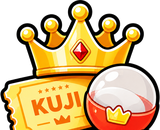
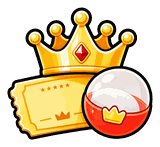
v3.9.8: 쿠지킹 스마트스토어·카카오톡 채널 연결(쿠지통령→쿠지킹) · 로고 아래 잘림/흰 네모 수정(워드마크·엠블럼 재생성, 투명 여백 5%) · 뽑기권 구매 버튼 추가

diff --git a/index.html b/index.html
@@ -22,7 +22,7 @@
 <link rel="stylesheet" href="https://fonts.googleapis.com/css2?family=Black+Han+Sans&family=Do+Hyeon&display=swap">
 <link rel="stylesheet" href="https://cdn.jsdelivr.net/gh/orioncactus/pretendard@v1.3.9/dist/web/variable/pretendardvariable-dynamic-subset.min.css">
 <link rel="preconnect" href="https://t1.kakaocdn.net" crossorigin>
-<link rel="stylesheet" href="assets/styles.css?v=3.9.7">
+<link rel="stylesheet" href="assets/styles.css?v=3.9.8">
 <script type="application/ld+json">
 {"@context":"https://schema.org","@type":"WebSite","name":"쿠지킹","alternateName":"KUJIKING","url":"https://kujiking.co.kr/"}
 </script>
@@ -34,14 +34,14 @@
   <div class="container announce-inner">
     <span class="announce-badge">OPEN</span>
     <p class="announce-demo">오픈 기념 <strong>전 판 무료 체험</strong> · 체험 코드 <code>DEMO-KUJI</code> 또는 체험 계정으로 바로 뽑아보세요</p>
-    <p class="announce-live" hidden>스마트스토어 <strong>쿠지통령</strong>에서 구매하고 <strong>구매확인</strong>을 요청하면 뽑기권(쿠폰)이 계정에 지급됩니다</p>
+    <p class="announce-live" hidden>스마트스토어 <strong>쿠지킹</strong>에서 구매하고 <strong>구매확인</strong>을 요청하면 뽑기권(쿠폰)이 계정에 지급됩니다 · <a class="announce-link" href="https://smartstore.naver.com/kujiking" target="_blank" rel="noopener">스마트스토어 바로가기 <span aria-hidden="true">→</span></a></p>
   </div>
 </div>
 
 <header class="site-header" id="siteHeader">
   <div class="container header-inner">
     <a class="brand" href="#/" aria-label="쿠지킹 홈">
-      <img src="assets/emblem-160.png" alt="" class="brand-mark" width="60" height="49">
+      <img src="assets/emblem-160.png" alt="" class="brand-mark" width="50" height="46" decoding="async">
       <span class="brand-word">쿠지킹</span>
     </a>
     <nav class="main-nav" id="mainNav" aria-label="주요 메뉴">
@@ -86,7 +86,7 @@
       <div class="hero-burst" aria-hidden="true"></div>
       <div class="container hero-inner">
         <div class="hero-copy">
-          <span class="pill pill-cream">공식 쿠지 스토어 · 쿠지통령</span>
+          <span class="pill pill-cream">공식 쿠지 스토어 · 쿠지킹</span>
           <h1>한 장에 설레는 순간,<br><span class="hl-mark">쿠지킹</span></h1>
           <p class="hero-sub">드래곤볼·헌터×헌터·죠죠·약사의 혼잣말까지.<br class="only-mobile">
             실제 상품 사진과 등급 설명서를 확인하고, 남은 번호를 골라 뽑아보세요.</p>
@@ -116,8 +116,12 @@
       <div class="container code-strip-inner">
         <div class="code-strip-copy">
           <strong>교환 코드가 있으신가요?</strong>
-          <span>스마트스토어 <b>쿠지통령</b>에서 구매하면 코드를 보내드려요. 구매확인 후 <b>쿠폰(뽑기권)</b>으로도 지급됩니다.</span>
+          <span>스마트스토어 <b>쿠지킹</b>에서 구매하면 코드를 보내드려요. 구매확인 후 <b>쿠폰(뽑기권)</b>으로도 지급됩니다.</span>
         </div>
+        <a class="buy-pill" href="https://smartstore.naver.com/kujiking/products/13893473264" target="_blank" rel="noopener" aria-label="뽑기권 구매 — 쿠지킹 스마트스토어 (새 창)">
+          <svg class="buy-pill-ico" viewBox="0 0 24 24" fill="none" stroke="currentColor" stroke-width="2.1" stroke-linecap="round" stroke-linejoin="round" aria-hidden="true"><path d="M3 5h2.2l2.1 10.4a2 2 0 0 0 2 1.6h7.5a2 2 0 0 0 2-1.6L20.5 8H6.2"/><circle cx="10" cy="20" r="1.3"/><circle cx="17.4" cy="20" r="1.3"/></svg>
+          <span class="buy-pill-text"><b>뽑기권 구매</b><em>스마트스토어</em></span>
+        </a>
         <form class="code-strip-form" data-form="code-strip" novalidate>
           <label class="sr-only" for="stripCode">교환 코드</label>
           <input id="stripCode" name="code" type="text" inputmode="text" autocomplete="off" spellcheck="false"
@@ -267,7 +271,7 @@
             <p class="aside-ship"><b>배송비 · 합배송</b><span data-ship-notice>기본 배송비 3,500원 · 보관함에서 3건 이상 묶음(합배송) 신청 시 무료배송 (제주·도서산간 +3,000원)</span></p>
             <button class="kakao-pill kakao-pill-sm kakao-pill-block" type="button" data-action="open-kakao">
               <span class="kakao-mark" aria-hidden="true"><svg viewBox="0 0 24 24" fill="none"><path d="M12 2.9c-5.3 0-9.6 3.4-9.6 7.6 0 2.7 1.8 5.1 4.4 6.4l-1 3.3c-.1.4.3.7.6.5l4-2.5c.5.1 1 .1 1.6.1 5.3 0 9.6-3.4 9.6-7.6S17.3 2.9 12 2.9z" fill="currentColor"/></svg></span>
-              <span class="kakao-pill-word">1:1 오픈채팅 문의</span>
+              <span class="kakao-pill-word">1:1 카카오톡 문의</span>
             </button>
             <button class="btn btn-outline btn-block btn-sm" data-action="open-code-modal">교환 코드 미리 넣기</button>
           </div>
@@ -712,14 +716,14 @@
           <div class="card admin-card" id="csCard">
             <div class="admin-card-head">
               <h2>고객센터 · 배송비 설정</h2>
-              <span class="badge" id="csStateBadge" hidden>오픈채팅 연결됨</span>
+              <span class="badge" id="csStateBadge" hidden>카카오톡 상담 연결됨</span>
             </div>
-            <p class="muted">카카오톡 1:1 오픈채팅 주소와 배송비·합배송 안내 문구를 정합니다. 저장하면 앱을 다시 올리지 않아도 푸터·이용 안내·내 보관함·배송 신청 창에 바로 적용돼요.</p>
+            <p class="muted">카카오톡 채널 1:1 상담 주소와 배송비·합배송 안내 문구를 정합니다. 저장하면 앱을 다시 올리지 않아도 푸터·이용 안내·내 보관함·배송 신청 창에 바로 적용돼요.</p>
             <form class="cs-form" data-form="save-cs" novalidate>
               <label class="field">
-                <span>카카오톡 1:1 오픈채팅 주소</span>
-                <input name="kakao" type="text" inputmode="url" autocomplete="off" spellcheck="false" placeholder="https://open.kakao.com/o/xxxxxxxx">
-                <em class="field-hint">비워 두면 방문자가 문의 버튼을 눌렀을 때 “현재 1:1 오픈채팅을 연결 중입니다!” 안내가 보입니다.</em>
+                <span>카카오톡 채널 1:1 상담 주소</span>
+                <input name="kakao" type="text" inputmode="url" autocomplete="off" spellcheck="false" placeholder="https://pf.kakao.com/_xnxhmvX/chat">
+                <em class="field-hint">지금은 쿠지킹 카카오톡 채널(https://pf.kakao.com/_xnxhmvX/chat)이 연결돼 있어요. 비워 두면 다시 “연결 중” 안내가 나갑니다.</em>
               </label>
               <label class="field">
                 <span>배송비 · 합배송 안내 문구</span>
@@ -729,7 +733,7 @@
               <div class="cs-live-preview" id="csPreview"></div>
               <div class="form-actions">
                 <button class="btn btn-primary" type="submit">저장</button>
-                <button class="btn btn-outline" type="button" data-action="test-kakao">오픈채팅 열어보기</button>
+                <button class="btn btn-outline" type="button" data-action="test-kakao">카카오톡 상담 열어보기</button>
               </div>
               <p class="form-error" id="csError" role="alert"></p>
             </form>
@@ -785,7 +789,7 @@
 <footer class="site-footer">
   <div class="container footer-inner">
     <div class="footer-brand">
-      <img src="assets/emblem-400.png" alt="쿠지킹" width="84" height="68">
+      <img src="assets/emblem-400.png" alt="쿠지킹" width="92" height="84" decoding="async">
       <p>한 장에 설레는 순간, 쿠지킹.<br>온라인 쿠지 · 이치방쿠지 · 제일복권</p>
     </div>
     <div class="footer-links">
@@ -798,7 +802,8 @@
       </div>
       <div>
         <h4>고객센터</h4>
-        <a href="https://smartstore.naver.com/" target="_blank" rel="noopener">쿠지통령 스마트스토어</a>
+        <a href="https://smartstore.naver.com/kujiking" target="_blank" rel="noopener">쿠지킹 스마트스토어</a>
+        <a href="https://pf.kakao.com/_xnxhmvX/chat" target="_blank" rel="noopener">카카오톡 채널 상담</a>
         <a href="#/fairness">확률 · 이용 안내</a>
       </div>
     </div>
@@ -810,7 +815,7 @@
     </div>
     <button class="kakao-pill" id="footerKakaoBtn" type="button" data-action="open-kakao">
       <span class="kakao-mark" aria-hidden="true"><svg viewBox="0 0 24 24" fill="none"><path d="M12 2.9c-5.3 0-9.6 3.4-9.6 7.6 0 2.7 1.8 5.1 4.4 6.4l-1 3.3c-.1.4.3.7.6.5l4-2.5c.5.1 1 .1 1.6.1 5.3 0 9.6-3.4 9.6-7.6S17.3 2.9 12 2.9z" fill="currentColor"/></svg></span>
-      <span class="kakao-pill-word">1:1 오픈채팅 문의</span>
+      <span class="kakao-pill-word">1:1 카카오톡 문의</span>
     </button>
   </div>
   <div class="container footer-legal">
@@ -819,7 +824,7 @@
       본 상품은 무작위 추첨 상품입니다. 교환 코드 사용(개봉) 후에는 청약철회가 제한됩니다.
       미성년자는 법정대리인 동의 후 이용해 주세요.
     </p>
-    <p class="footer-copy">© 2026 쿠지킹. All rights reserved. · <span class="proto-tag" id="protoTag">v2.0</span></p>
+    <p class="footer-copy">© 2026 쿠지킹. All rights reserved. · <span class="proto-tag" id="protoTag">v3.9.8</span></p>
   </div>
 </footer>
 
@@ -834,6 +839,6 @@
 </div>
 
 <script src="assets/config.js?v=3.0.2"></script>
-<script src="assets/app.js?v=3.9.7" defer></script>
+<script src="assets/app.js?v=3.9.8" defer></script>
 </body>
 </html>

diff --git a/assets/app.js b/assets/app.js
@@ -18,6 +18,11 @@
   var STATE_VERSION = 5;   // v5: 실물 등급 각 1개 + P상(굿즈 포인트 1,200P) 구성으로 재시드
   var MAX_TICKETS = 500;
 
+  /* ---------- 스토어 · 카카오톡 채널 링크 (2026-11-24 개설) ---------- */
+  var STORE_URL = 'https://smartstore.naver.com/kujiking';
+  var STORE_PRODUCT_URL = 'https://smartstore.naver.com/kujiking/products/13893473264';
+  var KAKAO_CHAT_URL = 'https://pf.kakao.com/_xnxhmvX/chat';
+
   /* ---------- 회원가입 이메일 제한 ----------
      스팸 가입 방지를 위해 네이버·지메일 주소만 가입을 받는다.
      이미 가입한 다른 도메인 계정도 로그인은 그대로 된다(가입에만 적용). */
@@ -398,7 +403,7 @@
   function emptyState() {
     return {
       v: STATE_VERSION,
-      settings: { demoCode: 'DEMO-KUJI', pinHash: '', pinChanged: false, storeName: '쿠지통령', youtubeLiveUrl: '', youtubeLiveEnabled: true, kakaoOpenchatUrl: '', shippingFeeNotice: '' },
+      settings: { demoCode: 'DEMO-KUJI', pinHash: '', pinChanged: false, storeName: '쿠지킹', youtubeLiveUrl: '', youtubeLiveEnabled: true, kakaoOpenchatUrl: KAKAO_CHAT_URL, shippingFeeNotice: '' },
       boards: [], users: [], coupons: [], draws: [], claims: [], deliveries: [], codes: [],
       session: null,
       me: null, myCoupons: [], myDraws: [], myClaims: [], myDeliveries: [],
@@ -963,7 +968,7 @@
   }
 
   function normalizeLocalState(s) {
-    s.settings = Object.assign({ demoCode: 'DEMO-KUJI', pinHash: '', pinChanged: false, storeName: '쿠지통령', youtubeLiveUrl: '', youtubeLiveEnabled: true, kakaoOpenchatUrl: '', shippingFeeNotice: '' }, s.settings || {});
+    s.settings = Object.assign({ demoCode: 'DEMO-KUJI', pinHash: '', pinChanged: false, storeName: '쿠지킹', youtubeLiveUrl: '', youtubeLiveEnabled: true, kakaoOpenchatUrl: KAKAO_CHAT_URL, shippingFeeNotice: '' }, s.settings || {});
     s.users = s.users || [];
     s.coupons = s.coupons || [];
     s.draws = s.draws || [];
@@ -1187,7 +1192,7 @@
         if (typeof settingsMap.youtube_live_enabled === 'string') {
           state.settings.youtubeLiveEnabled = !/^(false|0|off|no)$/i.test(settingsMap.youtube_live_enabled.trim());
         }
-        if (typeof settingsMap.kakao_openchat_url === 'string') state.settings.kakaoOpenchatUrl = settingsMap.kakao_openchat_url;
+        if (typeof settingsMap.kakao_openchat_url === 'string' && settingsMap.kakao_openchat_url.trim()) state.settings.kakaoOpenchatUrl = settingsMap.kakao_openchat_url;
         if (typeof settingsMap.shipping_fee_notice === 'string') state.settings.shippingFeeNotice = settingsMap.shipping_fee_notice;
       }
 
@@ -2197,7 +2202,7 @@
 
   /* ---------- 고객센터 · 배송비 ---------- */
   var SHIP_NOTICE_DEFAULT = '기본 배송비 3,500원 · 보관함에서 3건 이상 묶음(합배송) 신청 시 무료배송 (제주·도서산간 +3,000원)';
-  var KAKAO_SOON = '현재 1:1 오픈채팅을 연결 중입니다! 잠시만 기다려 주세요.';
+  var KAKAO_SOON = '현재 1:1 카카오톡 상담을 연결 중입니다! 잠시만 기다려 주세요.';
 
   function shippingNotice() {
     var s = String(state.settings.shippingFeeNotice == null ? '' : state.settings.shippingFeeNotice).replace(/\s+/g, ' ').trim();
@@ -2218,7 +2223,7 @@
   }
 
   function kakaoOpenchatUrl() {
-    return kakaoTarget(state.settings.kakaoOpenchatUrl);
+    return kakaoTarget(state.settings.kakaoOpenchatUrl) || KAKAO_CHAT_URL;
   }
 
   function kakaoMarkHTML(cls) {
@@ -2228,7 +2233,7 @@
   function kakaoPillHTML(cls) {
     return '<button class="kakao-pill' + (cls ? ' ' + cls : '') + '" type="button" data-action="open-kakao">' +
       kakaoMarkHTML() +
-    '<span class="kakao-pill-word">1:1 오픈채팅 문의</span></button>';
+    '<span class="kakao-pill-word">1:1 카카오톡 문의</span></button>';
   }
 
   function openKakaoInquiry(raw) {
@@ -2239,7 +2244,7 @@
     }
     openModal('<div class="kakao-soon">' +
       '<span class="kakao-soon-mark" aria-hidden="true">' + kakaoMarkHTML('kakao-mark-lg') + '</span>' +
-      '<h2 class="modal-title" id="modalTitle">1:1 오픈채팅 문의</h2>' +
+      '<h2 class="modal-title" id="modalTitle">1:1 카카오톡 문의</h2>' +
       '<p class="modal-sub">' + h(KAKAO_SOON) + '</p>' +
       '<div class="modal-actions"><button class="btn btn-dark" type="button" data-action="close-modal">확인</button></div>' +
       '</div>');
@@ -2255,7 +2260,7 @@
     var on = !!kakaoOpenchatUrl();
     $$('[data-action="open-kakao"]').forEach(function (el) {
       el.classList.toggle('is-soon', !on);
-      el.setAttribute('title', on ? '카카오톡 1:1 오픈채팅 열기 (새 창)' : '1:1 오픈채팅 연결 준비 중');
+      el.setAttribute('title', on ? '카카오톡 1:1 상담 열기 (새 창)' : '1:1 카카오톡 상담 연결 준비 중');
     });
   }
 
@@ -2317,7 +2322,7 @@
     prev.innerHTML = '<span>방문자에게 보이는 배송비 안내 → <b>' + h(noteText) + '</b></span>' +
       (typed.kakao
         ? (target ? '<span>문의 버튼 → <a href="' + h(target) + '" target="_blank" rel="noopener">' + h(target) + '</a></span>'
-                  : '<span>주소를 확인해 주세요. 예: <code>https://open.kakao.com/o/xxxxxxxx</code></span>')
+                  : '<span>주소를 확인해 주세요. 예: <code>https://pf.kakao.com/_xnxhmvX/chat</code></span>')
         : '<span>문의 버튼 → 지금은 “' + h(KAKAO_SOON) + '” 안내가 보입니다.</span>');
   }
 
@@ -2333,7 +2338,7 @@
     if (badge) {
       var on = !!kakaoOpenchatUrl();
       badge.className = 'badge ' + (on ? 'badge-live' : 'badge-closed');
-      badge.textContent = on ? '오픈채팅 연결됨' : '연결 전 · 준비 중 안내';
+      badge.textContent = on ? '카카오톡 상담 연결됨' : '연결 전 · 준비 중 안내';
       badge.hidden = false;
     }
     updateCsPreview();
@@ -5807,7 +5812,7 @@
       '<p>당첨 상품은 내 보관함에서 배송 신청한 주소로 발송됩니다. 주소 오류로 인한 반송은 재발송 비용이 발생할 수 있습니다.</p>' +
       '<h3>6. 배송비 · 합배송</h3>' +
       '<p><span data-ship-notice>' + h(shippingNotice()) + '</span></p>' +
-      '<p class="fair-hint">배송비·합배송·교환 코드 문의는 카카오톡 1:1 오픈채팅으로 받고 있습니다.</p>' +
+      '<p class="fair-hint">배송비·합배송·교환 코드 문의는 카카오톡 채널 1:1 상담으로 받고 있습니다.</p>' +
       kakaoPillHTML('kakao-pill-sm') +
       '<h3>7. 미성년자 이용</h3>' +
       '<p>미성년자는 법정대리인의 동의를 받은 후 이용할 수 있습니다. 만 14세 미만은 이용할 수 없습니다.</p>' +
@@ -6816,8 +6821,8 @@
           var csForm = $('form[data-form="save-cs"]');
           var csInput = csForm ? csForm.querySelector('input[name="kakao"]') : null;
           var csTyped = csInput ? csInput.value.trim() : '';
-          if (csTyped && !kakaoTarget(csTyped)) { toast('주소를 확인해 주세요. 예: https://open.kakao.com/o/xxxxxxxx', 'err'); break; }
-          if (!csTyped && !kakaoOpenchatUrl()) { toast('먼저 카카오톡 오픈채팅 주소를 입력해 주세요', 'err'); break; }
+          if (csTyped && !kakaoTarget(csTyped)) { toast('주소를 확인해 주세요. 예: https://pf.kakao.com/_xnxhmvX/chat', 'err'); break; }
+          if (!csTyped && !kakaoOpenchatUrl()) { toast('먼저 카카토톡 채널 상담 주소를 입력해 주세요', 'err'); break; }
           openKakaoInquiry(csTyped);
           break;
         }
@@ -7180,7 +7185,7 @@
         var csUrl = fieldValue(form, 'kakao').trim();
         var csNotice = fieldValue(form, 'shipping').replace(/\s+/g, ' ').trim();
         if (csUrl && !kakaoTarget(csUrl)) {
-          if (csErr) csErr.textContent = '오픈채팅 주소를 확인해 주세요. 예: https://open.kakao.com/o/xxxxxxxx';
+          if (csErr) csErr.textContent = '카카오톡 채널 주소를 확인해 주세요. 예: https://pf.kakao.com/_xnxhmvX/chat';
           return;
         }
         if (csNotice.length > 160) {

diff --git a/assets/styles.css b/assets/styles.css
@@ -174,6 +174,9 @@ code{font-family:var(--font-mono);font-size:.92em;background:var(--cream);border
 .announce p{margin:0;opacity:.95}
 .announce strong{color:var(--yellow)}
 .announce code{background:rgba(255,255,255,.14);color:var(--yellow);padding:.1em .4em;border-radius:5px}
+.announce a{color:var(--yellow)}
+.announce-link{color:var(--yellow);font-weight:800;text-decoration:underline;text-underline-offset:2px;white-space:nowrap}
+.announce-link:hover{color:#fff}
 .announce-badge{
   display:inline-block;background:var(--yellow);color:var(--ink);
   font-weight:900;font-size:11px;letter-spacing:.12em;padding:2px 8px;border-radius:5px;
@@ -187,7 +190,8 @@ code{font-family:var(--font-mono);font-size:.92em;background:var(--cream);border
 }
 .header-inner{display:flex;align-items:center;gap:26px;min-height:var(--header-h)}
 .brand{display:flex;align-items:center;gap:9px;flex-shrink:0}
-.brand-mark{width:auto;height:46px;filter:drop-shadow(0 2px 0 rgba(23,18,14,.10))}
+.brand-mark{width:auto;height:46px;display:block;object-fit:contain;overflow:visible;filter:drop-shadow(0 2px 0 rgba(23,18,14,.10))}
+.brand-logo{display:block;width:auto;object-fit:contain;overflow:visible}
 .brand-word{font-family:var(--font-display);font-size:26px;line-height:1;letter-spacing:-.045em;padding-top:2px}
 .main-nav{display:flex;align-items:center;gap:4px;margin-left:8px}
 .main-nav a{
@@ -244,7 +248,7 @@ code{font-family:var(--font-mono);font-size:.92em;background:var(--cream);border
   border:var(--stroke) solid var(--ink);
   box-shadow:0 12px 0 rgba(23,18,14,.14);
 }
-.hero-logo{position:relative;width:min(400px,84%);height:auto;filter:drop-shadow(0 14px 22px rgba(23,18,14,.18))}
+.hero-logo{position:relative;width:min(400px,84%);height:auto;display:block;object-fit:contain;overflow:visible;filter:drop-shadow(0 14px 22px rgba(23,18,14,.18))}
 .float-chip{
   position:absolute;z-index:3;
   padding:9px 16px;border-radius:999px;border:var(--stroke) solid var(--ink);
@@ -263,6 +267,17 @@ code{font-family:var(--font-mono);font-size:.92em;background:var(--cream);border
 .code-strip-copy{display:flex;flex-direction:column;line-height:1.4}
 .code-strip-copy strong{font-size:16.5px;font-weight:900}
 .code-strip-copy span{font-size:13.5px;color:var(--ink-soft)}
+.buy-pill{
+  display:inline-flex;align-items:center;gap:9px;flex-shrink:0;
+  padding:8px 16px 8px 13px;border:var(--stroke) solid var(--ink);border-radius:999px;
+  background:var(--ink);color:#fff;box-shadow:0 3px 0 rgba(23,18,14,.22);
+  transition:transform .12s ease,background .15s ease;
+}
+.buy-pill:hover{transform:translateY(-1px);background:#2c241c}
+.buy-pill-ico{width:19px;height:19px;flex-shrink:0;color:var(--yellow)}
+.buy-pill-text{display:flex;flex-direction:column;line-height:1.16;text-align:left}
+.buy-pill-text b{font-size:13.5px;font-weight:900}
+.buy-pill-text em{font-style:normal;font-size:10.5px;letter-spacing:.05em;font-weight:800;color:var(--yellow)}
 .code-strip-form{margin-left:auto;display:flex;gap:8px}
 .code-strip-form input{
   width:230px;min-height:46px;padding:0 16px;border:var(--stroke) solid var(--ink);border-radius:999px;
@@ -631,7 +646,7 @@ code{font-family:var(--font-mono);font-size:.92em;background:var(--cream);border
 .site-footer{margin-top:40px;background:var(--ink);color:#fff;padding:46px 0 30px}
 .footer-inner{display:flex;justify-content:space-between;gap:40px;flex-wrap:wrap}
 .footer-brand{display:flex;gap:18px;align-items:center;max-width:420px}
-.footer-brand img{width:84px;height:auto;filter:drop-shadow(0 4px 0 rgba(0,0,0,.25))}
+.footer-brand img{width:84px;height:auto;display:block;object-fit:contain;overflow:visible;filter:drop-shadow(0 4px 0 rgba(0,0,0,.25))}
 .footer-brand p{font-size:13px;color:rgba(255,255,255,.72);line-height:1.7}
 .footer-links{display:flex;gap:56px;flex-wrap:wrap}
 .footer-links h4{font-size:12px;letter-spacing:.12em;color:var(--yellow);margin-bottom:10px;font-weight:900}
@@ -1154,7 +1169,9 @@ code{font-family:var(--font-mono);font-size:.92em;background:var(--cream);border
   .brand-mark{height:36px}
   .brand-logo{height:48px}
   .code-strip-inner{gap:12px;padding:14px 16px}
-  .code-strip-form{margin-left:0;width:100%}
+  .buy-pill{width:100%;justify-content:center;order:2;padding:11px 16px}
+  .buy-pill-text{flex-direction:row;align-items:baseline;gap:7px}
+  .code-strip-form{margin-left:0;width:100%;order:3}
   .code-strip-form input{flex:1;width:auto;min-width:0}
   .section{padding:44px 0 0}
   .section-desc{text-align:left}

diff --git a/assets/config.js b/assets/config.js
@@ -17,6 +17,9 @@ window.KUJI_CONFIG = {
   FORCE_DEMO: false,
 
   /* 화면 표시용 */
-  STORE_NAME: '쿠지통령',
+  STORE_NAME: '쿠지킹',
+  STORE_URL: 'https://smartstore.naver.com/kujiking',
+  STORE_PRODUCT_URL: 'https://smartstore.naver.com/kujiking/products/13893473264',
+  KAKAO_CHAT_URL: 'https://pf.kakao.com/_xnxhmvX/chat',
   CONTACT: 'kujiking@kujiking.co.kr'
 };
